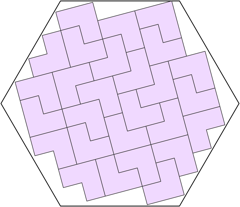
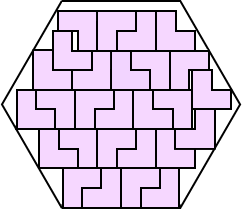
L

Changed region(s): [[0.0, 0.0, 1.0, 1.0]]

diff --git a/packing/Linhex/index.html b/packing/Linhex/index.html
@@ -11,7 +11,7 @@
 
 <TABLE BORDER=0 width=100% cellspacing=0><TR align=center>
<td>&nbsp;&nbsp;&nbsp;&nbsp;&nbsp;&nbsp;&nbsp;&nbsp;&nbsp;&nbsp;
<TD><font size=+3>22.<br><img align=abscenter src="22.png"><br><font size=+1>s = 3+3&radic;3/2 = 5.59807+<br>Found by Aaden Abraham<br>in July 2026.
<td>&nbsp;&nbsp;&nbsp;&nbsp;&nbsp;&nbsp;&nbsp;&nbsp;&nbsp;&nbsp;
<TD><font size=+3>23.<br><img align=abscenter src="23.png"><br><font size=+1>s = 7&radic;6/3 = 5.71547+<br>Found by Aaden Abraham<br>in July 2026.
<td>&nbsp;&nbsp;&nbsp;&nbsp;&nbsp;&nbsp;&nbsp;&nbsp;&nbsp;&nbsp;
<TD><font size=+3>24.<br><img align=abscenter src="24.png"><br><font size=+1>s = 10/&radic;3 = 5.77350+<br>Found by Aaden Abraham<br>in July 2026.
</TR></TABLE><p><hr><p>
 
-<TABLE BORDER=0 width=100% cellspacing=0><TR align=center>
<td>&nbsp;&nbsp;&nbsp;&nbsp;&nbsp;&nbsp;&nbsp;&nbsp;&nbsp;&nbsp;
<TD><font size=+3>25.<br><img align=abscenter src="25.png"><br><font size=+1>s = 3+5/&radic;3 = 5.88675+<br>Found by Aaden Abraham<br>in July 2026.
<td>&nbsp;&nbsp;&nbsp;&nbsp;&nbsp;&nbsp;&nbsp;&nbsp;&nbsp;&nbsp;
<TD><font size=+3>26.<br><img align=abscenter src="26.png"><br><font size=+1>s = 2(5+7/&radic;3)/3 = 6.02763+<br>Found by Maurizio Morandi<br>in July 2026.
<td>&nbsp;&nbsp;&nbsp;&nbsp;&nbsp;&nbsp;&nbsp;&nbsp;&nbsp;&nbsp;
<TD><font size=+3>27.<br><img align=abscenter src="27.png"><br><font size=+1>s = (&radic;6+51&radic;2)/12 = 6.21453+<br>Found by Aaden Abraham<br>in July 2026.
</TR></TABLE><p><hr><p>
+<TABLE BORDER=0 width=100% cellspacing=0><TR align=center>
<td>&nbsp;&nbsp;&nbsp;&nbsp;&nbsp;&nbsp;&nbsp;&nbsp;&nbsp;&nbsp;
<TD><font size=+3>25.<br><img align=abscenter src="25.png"><br><font size=+1>s = 3+5/&radic;3 = 5.88675+<br>Found by Aaden Abraham<br>in July 2026.
<td>&nbsp;&nbsp;&nbsp;&nbsp;&nbsp;&nbsp;&nbsp;&nbsp;&nbsp;&nbsp;
<TD><font size=+3>26.<br><img align=abscenter src="26.png"><br><font size=+1>s = 2(5+7/&radic;3)/3 = 6.02763+<br>Found by Maurizio Morandi<br>in July 2026.
<td>&nbsp;&nbsp;&nbsp;&nbsp;&nbsp;&nbsp;&nbsp;&nbsp;&nbsp;&nbsp;
<TD><font size=+3>27.<br><img align=abscenter src="27.png"><br><font size=+1>s = 9/2+11&radic;3/12 = 6.08771+<br>Found by Maurizio Morandi<br>in July 2026.
</TR></TABLE><p><hr><p>
 
-<TABLE BORDER=0 width=100% cellspacing=0><TR align=center>
<td>&nbsp;&nbsp;&nbsp;&nbsp;&nbsp;&nbsp;&nbsp;&nbsp;&nbsp;&nbsp;
<TD><font size=+3>28.<br><img align=abscenter src="28.png"><br><font size=+1>s = 4+4/&radic;3 = 6.30940+<br>Found by Aaden Abraham<br>in July 2026.
<td>&nbsp;&nbsp;&nbsp;&nbsp;&nbsp;&nbsp;&nbsp;&nbsp;&nbsp;&nbsp;
<TD><font size=+3>29.<br><img align=abscenter src="29.png"><br><font size=+1>s = 11/&radic;3 = 6.35085+<br>Found by Aaden Abraham<br>in July 2026.
<td>&nbsp;&nbsp;&nbsp;&nbsp;&nbsp;&nbsp;&nbsp;&nbsp;&nbsp;&nbsp;
<TD><font size=+3>30.<br><img align=abscenter src="30.png"><br><font size=+1>s = (11+&radic;3)/2 = 6.36602+<br>Found by Maurizio Morandi<br>in July 2026.
</TR></TABLE><p><hr><p>
+<TABLE BORDER=0 width=100% cellspacing=0><TR align=center>
<td>&nbsp;&nbsp;&nbsp;&nbsp;&nbsp;&nbsp;&nbsp;&nbsp;&nbsp;&nbsp;
<TD><font size=+3>28.<br><img align=abscenter src="28.png"><br><font size=+1>s = 7/2+19&radic;/12 = 6.24241+<br>Found by Maurizio Morandi<br>in July 2026.
<td>&nbsp;&nbsp;&nbsp;&nbsp;&nbsp;&nbsp;&nbsp;&nbsp;&nbsp;&nbsp;
<TD><font size=+3>29.<br><img align=abscenter src="29.png"><br><font size=+1>s = 11/&radic;3 = 6.35085+<br>Found by Aaden Abraham<br>in July 2026.
<td>&nbsp;&nbsp;&nbsp;&nbsp;&nbsp;&nbsp;&nbsp;&nbsp;&nbsp;&nbsp;
<TD><font size=+3>30.<br><img align=abscenter src="30.png"><br><font size=+1>s = (11+&radic;3)/2 = 6.36602+<br>Found by Maurizio Morandi<br>in July 2026.
</TR></TABLE><p><hr><p>
 
</BODY>
</HTML>

diff --git a/packing/index.html b/packing/index.html
@@ -32,7 +32,7 @@
 <TD width=11%><center><A HREF="taninhex/" >
<IMG SRC="taninhex/tih.gif" width=105 height=91></center></A></TD>
 <TD width=11%><center><A HREF="dominhex/" >
<IMG SRC="dominhex/dih.gif" width=110 height=95></center></A></TD>
 <TD width=11%><center><A HREF="Linhex/" >
<IMG SRC="Linhex/lih.gif" width=110 height=95></center></A></TD>
-</TR><TR>
<TD width=11%><center><font size=+1><b>Circles in Hexagons</b></font>
<br>updated 7/19/12</TD>
<TD width=11%><center><font size=+1><b>Triangles in Hexagons</b></font>
<br>updated 7/5/26</TD>
<TD width=11%><center><font size=+1><b>Squares in Hexagons</b></font>
<br>updated 7/6/26</TD>
<TD width=11%><center><font size=+1><b>Pentagons in Hexagons</b></font>
<br>updated 7/14/26</TD>
<TD width=11%><center><font size=+1><b>Hexagons in Hexagons</b></font>
<br>updated 7/5/26</TD>
<TD width=11%><center><font size=+1><b>Octagons in Hexagons</b></font>
<br>updated 7/6/26</TD>
<TD width=11%><center><font size=+1><b>Tans in Hexagons</b></font>
<br>updated 7/9/26</TD>
<TD width=11%><center><font size=+1><b>Dominoes in Hexagons</b></font>
<br>updated 7/17/26</TD>
<TD width=11%><center><font size=+1><b>L's in Hexagons</b></font>
<br>updated 7/20/26</TD>
</TR></TABLE>


<TABLE BORDER=0 width=100% cellspacing=10><TR align=center>
<TD width=11%><center><A HREF="https://www.packomania.com/coc/coc.html" >
<IMG SRC="logos/cirinoct.gif" width=100 height=99></center></A></TD>
+</TR><TR>
<TD width=11%><center><font size=+1><b>Circles in Hexagons</b></font>
<br>updated 7/19/12</TD>
<TD width=11%><center><font size=+1><b>Triangles in Hexagons</b></font>
<br>updated 7/5/26</TD>
<TD width=11%><center><font size=+1><b>Squares in Hexagons</b></font>
<br>updated 7/6/26</TD>
<TD width=11%><center><font size=+1><b>Pentagons in Hexagons</b></font>
<br>updated 7/14/26</TD>
<TD width=11%><center><font size=+1><b>Hexagons in Hexagons</b></font>
<br>updated 7/5/26</TD>
<TD width=11%><center><font size=+1><b>Octagons in Hexagons</b></font>
<br>updated 7/6/26</TD>
<TD width=11%><center><font size=+1><b>Tans in Hexagons</b></font>
<br>updated 7/9/26</TD>
<TD width=11%><center><font size=+1><b>Dominoes in Hexagons</b></font>
<br>updated 7/17/26</TD>
<TD width=11%><center><font size=+1><b>L's in Hexagons</b></font>
<br>updated 7/22/26</TD>
</TR></TABLE>


<TABLE BORDER=0 width=100% cellspacing=10><TR align=center>
<TD width=11%><center><A HREF="https://www.packomania.com/coc/coc.html" >
<IMG SRC="logos/cirinoct.gif" width=100 height=99></center></A></TD>
 <TD width=11%><center><A HREF="triinoct/" >
<IMG SRC="triinoct/tio.gif" width=90 height=90></center></A></TD>
 <TD width=11%><center><A HREF="squinoct/" >
<IMG SRC="squinoct/sio.gif" width=90 height=90></center></A></TD>
 <TD width=11%><center><A HREF="peninoct/" >
<IMG SRC="peninoct/pio.gif" width=100 height=100></center></A></TD>